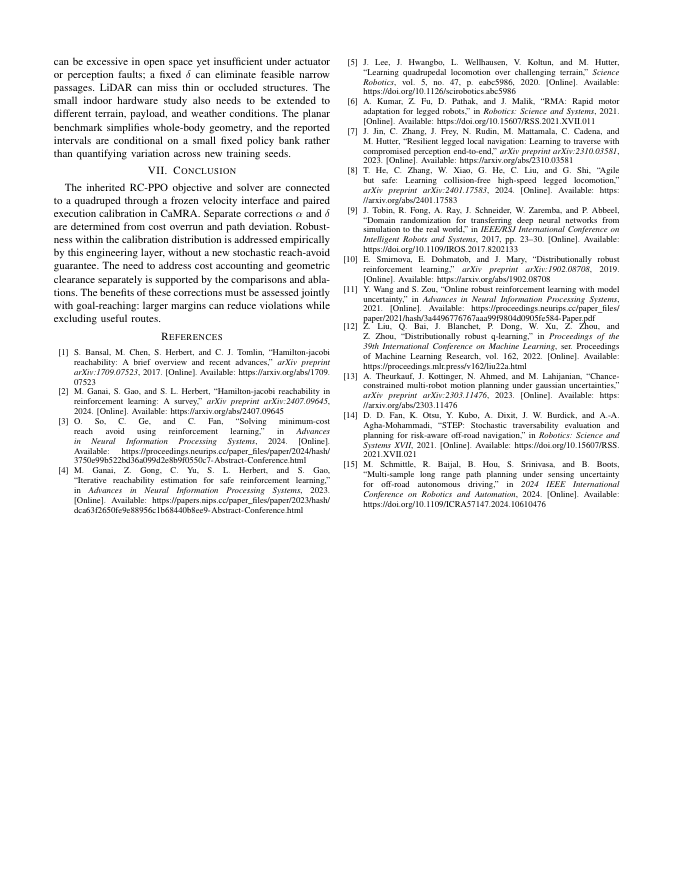
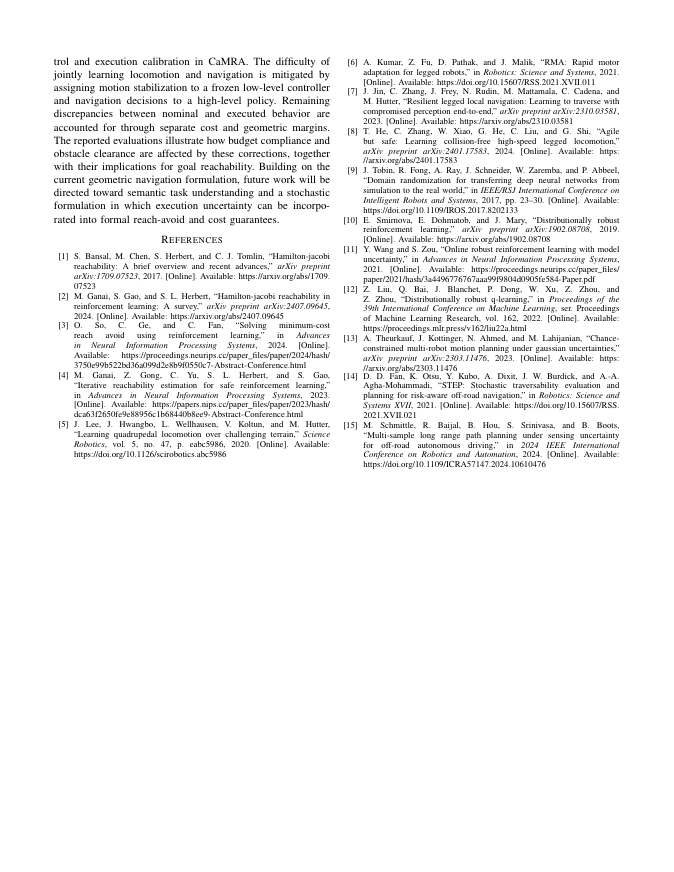
优化结论的分层校准总结并整合未来方向

Changed region(s): [[0.0623, 0.0619, 0.9347, 0.5883]]

diff --git a/CCDC/latex/1029/main.tex b/CCDC/latex/1029/main.tex
@@ -642,25 +642,19 @@ earlier failures can lower mean cost without reducing its upper tail.
 All terminal outcomes are included in Cost and MC. Results are reported separately
 from the planar benchmark because the route, horizon, and footprint differ.
 
-\section{Limitations}
-Calibration quantiles do not guarantee
-coverage under temporal correlation, rare contacts, or distribution shift.
-A fixed $\alpha$ can be excessive in open space yet insufficient under actuator
-or perception faults; a fixed $\delta$ can eliminate feasible narrow passages.
-LiDAR can miss thin or occluded structures. The small indoor hardware study also needs to be extended to different terrain,
-payload, and weather conditions. The planar
-benchmark simplifies whole-body geometry, and the reported intervals are conditional
-on a small fixed policy bank rather than quantifying variation across new training seeds.
-
 \section{Conclusion}
-The inherited RC-PPO objective and solver are connected to a quadruped through
-a frozen velocity interface and paired execution calibration in CaMRA. Separate
-corrections $\alpha$ and $\delta$ are determined from cost overrun and path
-deviation. Robustness within the calibration distribution is addressed empirically by this
-engineering layer, without a new stochastic reach-avoid guarantee. The
-need to address cost accounting and geometric clearance separately is supported
-by the comparisons and ablations. The benefits of these corrections must be assessed jointly with goal-reaching:
-larger margins can reduce violations while excluding useful routes.
+The deployment of minimum-cost reach-avoid navigation on quadrupedal robots is
+addressed through hierarchical control and execution calibration in CaMRA. The
+difficulty of jointly learning locomotion and navigation is mitigated by assigning
+motion stabilization to a frozen low-level controller and navigation decisions to
+a high-level policy. Remaining discrepancies between nominal and executed behavior
+are accounted for through separate cost and geometric margins. The reported
+evaluations illustrate how budget compliance and obstacle clearance are affected
+by these corrections, together with their implications for goal reachability.
+Building on the current geometric navigation formulation, future work will be
+directed toward semantic task understanding and a stochastic formulation in which
+execution uncertainty can be incorporated into formal reach-avoid and cost
+guarantees.
 
 % Activate balancing within the first column of the reference page.
 \IEEEtriggeratref{9}
